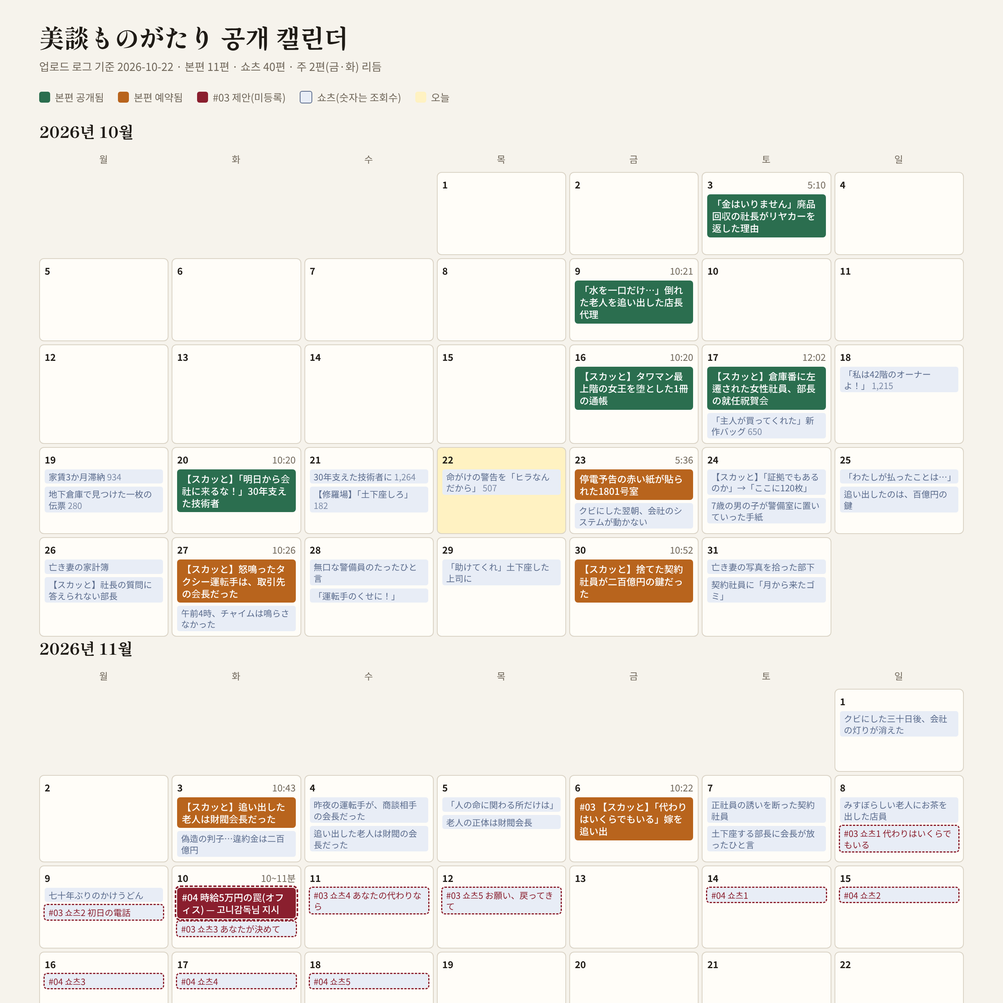
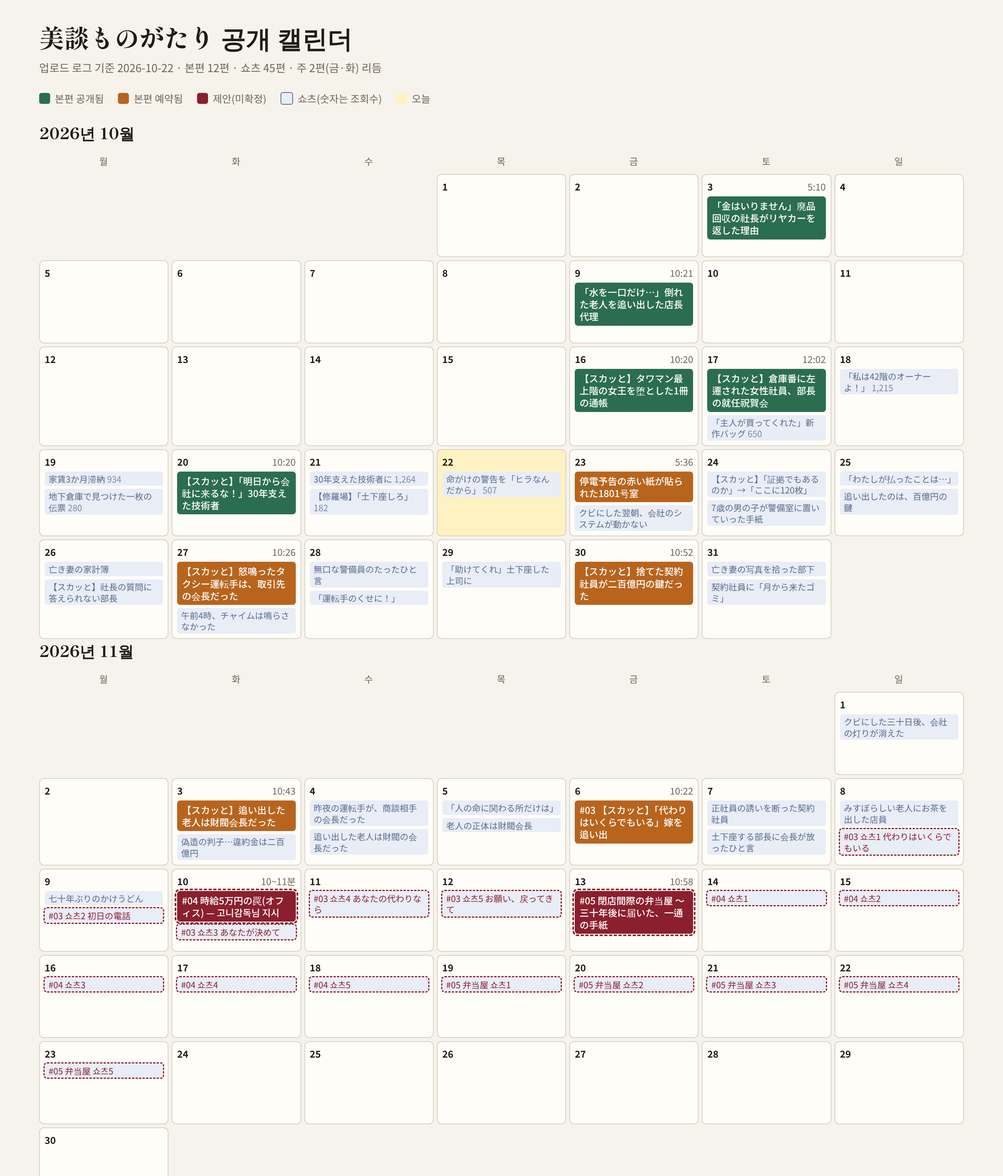
일정 도구: 「제안」 본편도 찬 칸으로, 쇼츠는 빈 날 우선 — #05 弁当屋 11/13 본편·11/19~23 쇼츠 제안 추가
Claude-Session: https://claude.ai/code/session_018wAFaWMhFYBvBXAjysko2Q

diff --git a/docs/채널-공개캘린더.html b/docs/채널-공개캘린더.html
@@ -45,12 +45,12 @@ td.n{font-variant-numeric:tabular-nums;text-align:right}
 <div class="wrap">
   <header>
     <h1>美談ものがたり 공개 캘린더</h1>
-    <p class="sub">업로드 로그 기준 2026-10-22 · 본편 11편 · 쇼츠 40편 · 주 2편(금·화) 리듬</p>
+    <p class="sub">업로드 로그 기준 2026-10-22 · 본편 12편 · 쇼츠 45편 · 주 2편(금·화) 리듬</p>
   </header>
   <div class="legend">
     <span><i class="sw" style="background:var(--main-pub)"></i>본편 공개됨</span>
     <span><i class="sw" style="background:var(--main-res)"></i>본편 예약됨</span>
-    <span><i class="sw" style="background:var(--main-prop)"></i>#03 제안(미등록)</span>
+    <span><i class="sw" style="background:var(--main-prop)"></i>제안(미확정)</span>
     <span><i class="sw" style="background:var(--short-bg);border:1px solid var(--short)"></i>쇼츠(숫자는 조회수)</span>
     <span><i class="sw" style="background:var(--today)"></i>오늘</span>
   </div>
@@ -64,8 +64,8 @@ td.n{font-variant-numeric:tabular-nums;text-align:right}
   <p class="note">본편 리듬은 금·화, 쇼츠는 거의 매일 1~2편. #03은 기예약 4편 뒤 첫 빈 금요일(11/6)에 두고, 쇼츠 5편은 기예약이 2편인 날(11/7)을 피해 11/8~11/12에 하루 1편씩 배치했습니다. 공개 시각은 전부 20:00 JST(쇼츠 평일 19:00·주말 12:00)로 가정했습니다.</p>
 </div>
 <script>
-const MAIN=[["2026-10-03", "pub", "「金はいりません」廃品回収の社長がリヤカーを返した理由", "5:10", null], ["2026-10-09", "pub", "「水を一口だけ…」倒れた老人を追い出した店長代理", "10:21", null], ["2026-10-16", "pub", "【スカッと】タワマン最上階の女王を堕とした1冊の通帳", "10:20", null], ["2026-10-17", "pub", "【スカッと】倉庫番に左遷された女性社員、部長の就任祝賀会", "12:02", null], ["2026-10-20", "pub", "【スカッと】「明日から会社に来るな！」30年支えた技術者", "10:20", null], ["2026-10-23", "res", "停電予告の赤い紙が貼られた1801号室", "5:36", null], ["2026-10-27", "res", "【スカッと】怒鳴ったタクシー運転手は、取引先の会長だった", "10:26", null], ["2026-10-30", "res", "【スカッと】捨てた契約社員が二百億円の鍵だった", "10:52", null], ["2026-11-03", "res", "【スカッと】追い出した老人は財閥会長だった", "10:43", null], ["2026-11-06", "res", "#03 【スカッと】「代わりはいくらでもいる」嫁を追い出", "10:22", null], ["2026-11-10", "prop", "#04 時給5万円の罠(オフィス) — 고니감독님 지시", "10~11분", null]];
-const SHORTS={"2026-10-17": [["「主人が買ってくれた」新作バッグ", 650, false]], "2026-10-18": [["「私は42階のオーナーよ！」", 1215, false]], "2026-10-19": [["家賃3か月滞納", 934, false], ["地下倉庫で見つけた一枚の伝票", 280, false]], "2026-10-21": [["30年支えた技術者に", 1264, false], ["【修羅場】「土下座しろ」", 182, false]], "2026-10-22": [["命がけの警告を「ヒラなんだから」", 507, false]], "2026-10-23": [["クビにした翌朝、会社のシステムが動かない", null, false]], "2026-10-24": [["【スカッと】「証拠でもあるのか」→「ここに120枚」", null, false], ["7歳の男の子が警備室に置いていった手紙", null, false]], "2026-10-25": [["「わたしが払ったことは…」", null, false], ["追い出したのは、百億円の鍵", null, false]], "2026-10-26": [["亡き妻の家計簿", null, false], ["【スカッと】社長の質問に答えられない部長", null, false]], "2026-10-27": [["午前4時、チャイムは鳴らさなかった", null, false]], "2026-10-28": [["無口な警備員のたったひと言", null, false], ["「運転手のくせに！」", null, false]], "2026-10-29": [["「助けてくれ」土下座した上司に", null, false]], "2026-10-31": [["亡き妻の写真を拾った部下", null, false], ["契約社員に「月から来たゴミ」", null, false]], "2026-11-01": [["クビにした三十日後、会社の灯りが消えた", null, false]], "2026-11-03": [["偽造の判子…違約金は二百億円", null, false]], "2026-11-04": [["昨夜の運転手が、商談相手の会長だった", null, false], ["追い出した老人は財閥の会長だった", null, false]], "2026-11-05": [["「人の命に関わる所だけは」", null, false], ["老人の正体は財閥会長", null, false]], "2026-11-07": [["正社員の誘いを断った契約社員", null, false], ["土下座する部長に会長が放ったひと言", null, false]], "2026-11-08": [["みすぼらしい老人にお茶を出した店員", null, false], ["#03 쇼츠1 代わりはいくらでもいる", null, true]], "2026-11-09": [["七十年ぶりのかけうどん", null, false], ["#03 쇼츠2 初日の電話", null, true]], "2026-11-10": [["#03 쇼츠3 あなたが決めて", null, true]], "2026-11-11": [["#03 쇼츠4 あなたの代わりなら", null, true]], "2026-11-12": [["#03 쇼츠5 お願い、戻ってきて", null, true]], "2026-11-14": [["#04 쇼츠1", null, true]], "2026-11-15": [["#04 쇼츠2", null, true]], "2026-11-16": [["#04 쇼츠3", null, true]], "2026-11-17": [["#04 쇼츠4", null, true]], "2026-11-18": [["#04 쇼츠5", null, true]]};
+const MAIN=[["2026-10-03", "pub", "「金はいりません」廃品回収の社長がリヤカーを返した理由", "5:10", null], ["2026-10-09", "pub", "「水を一口だけ…」倒れた老人を追い出した店長代理", "10:21", null], ["2026-10-16", "pub", "【スカッと】タワマン最上階の女王を堕とした1冊の通帳", "10:20", null], ["2026-10-17", "pub", "【スカッと】倉庫番に左遷された女性社員、部長の就任祝賀会", "12:02", null], ["2026-10-20", "pub", "【スカッと】「明日から会社に来るな！」30年支えた技術者", "10:20", null], ["2026-10-23", "res", "停電予告の赤い紙が貼られた1801号室", "5:36", null], ["2026-10-27", "res", "【スカッと】怒鳴ったタクシー運転手は、取引先の会長だった", "10:26", null], ["2026-10-30", "res", "【スカッと】捨てた契約社員が二百億円の鍵だった", "10:52", null], ["2026-11-03", "res", "【スカッと】追い出した老人は財閥会長だった", "10:43", null], ["2026-11-06", "res", "#03 【スカッと】「代わりはいくらでもいる」嫁を追い出", "10:22", null], ["2026-11-10", "prop", "#04 時給5万円の罠(オフィス) — 고니감독님 지시", "10~11분", null], ["2026-11-13", "prop", "#05 閉店間際の弁当屋 〜三十年後に届いた、一通の手紙", "10:58", null]];
+const SHORTS={"2026-10-17": [["「主人が買ってくれた」新作バッグ", 650, false]], "2026-10-18": [["「私は42階のオーナーよ！」", 1215, false]], "2026-10-19": [["家賃3か月滞納", 934, false], ["地下倉庫で見つけた一枚の伝票", 280, false]], "2026-10-21": [["30年支えた技術者に", 1264, false], ["【修羅場】「土下座しろ」", 182, false]], "2026-10-22": [["命がけの警告を「ヒラなんだから」", 507, false]], "2026-10-23": [["クビにした翌朝、会社のシステムが動かない", null, false]], "2026-10-24": [["【スカッと】「証拠でもあるのか」→「ここに120枚」", null, false], ["7歳の男の子が警備室に置いていった手紙", null, false]], "2026-10-25": [["「わたしが払ったことは…」", null, false], ["追い出したのは、百億円の鍵", null, false]], "2026-10-26": [["亡き妻の家計簿", null, false], ["【スカッと】社長の質問に答えられない部長", null, false]], "2026-10-27": [["午前4時、チャイムは鳴らさなかった", null, false]], "2026-10-28": [["無口な警備員のたったひと言", null, false], ["「運転手のくせに！」", null, false]], "2026-10-29": [["「助けてくれ」土下座した上司に", null, false]], "2026-10-31": [["亡き妻の写真を拾った部下", null, false], ["契約社員に「月から来たゴミ」", null, false]], "2026-11-01": [["クビにした三十日後、会社の灯りが消えた", null, false]], "2026-11-03": [["偽造の判子…違約金は二百億円", null, false]], "2026-11-04": [["昨夜の運転手が、商談相手の会長だった", null, false], ["追い出した老人は財閥の会長だった", null, false]], "2026-11-05": [["「人の命に関わる所だけは」", null, false], ["老人の正体は財閥会長", null, false]], "2026-11-07": [["正社員の誘いを断った契約社員", null, false], ["土下座する部長に会長が放ったひと言", null, false]], "2026-11-08": [["みすぼらしい老人にお茶を出した店員", null, false], ["#03 쇼츠1 代わりはいくらでもいる", null, true]], "2026-11-09": [["七十年ぶりのかけうどん", null, false], ["#03 쇼츠2 初日の電話", null, true]], "2026-11-10": [["#03 쇼츠3 あなたが決めて", null, true]], "2026-11-11": [["#03 쇼츠4 あなたの代わりなら", null, true]], "2026-11-12": [["#03 쇼츠5 お願い、戻ってきて", null, true]], "2026-11-14": [["#04 쇼츠1", null, true]], "2026-11-15": [["#04 쇼츠2", null, true]], "2026-11-16": [["#04 쇼츠3", null, true]], "2026-11-17": [["#04 쇼츠4", null, true]], "2026-11-18": [["#04 쇼츠5", null, true]], "2026-11-19": [["#05 弁当屋 쇼츠1", null, true]], "2026-11-20": [["#05 弁当屋 쇼츠2", null, true]], "2026-11-21": [["#05 弁当屋 쇼츠3", null, true]], "2026-11-22": [["#05 弁当屋 쇼츠4", null, true]], "2026-11-23": [["#05 弁当屋 쇼츠5", null, true]]};
 const TODAY="2026-10-22", DOW=["월","화","수","목","금","토","일"];
 const mainBy={}; MAIN.forEach(m=>mainBy[m[0]]=m);
 function month(y,m){

diff --git a/scripts/upload_calendar.py b/scripts/upload_calendar.py
@@ -23,7 +23,7 @@ for ln in open(LOG,encoding="utf-8"):
             items.append([re.sub(r"\(제안\)","",name).strip()[:26], int(v.group(1).replace(",","")) if v else None, "제안" in part])
         shorts.setdefault(c[0],[]).extend(items)
 months=sorted({(int(d[:4]),int(d[5:7])) for d in [m[0] for m in main]+list(shorts)})
-head='<title>美談ものがたり 공개 캘린더</title>\n<meta name="claude:viewport-fit-sides" content="cover">\n<link rel="stylesheet" href="https://fonts.googleapis.com/css2?family=Shippori+Mincho:wght@600;800&family=Noto+Sans+KR:wght@400;500;700&display=swap">\n<style>\n/* 레이아웃: 월간 7열 격자. 하루 칸에 본편(굵은 띠)·쇼츠(작은 칩)를 쌓는다. */\n:root{\n  --bg:#f6f3ec; --fg:#1f1b16; --muted:#6f6659; --line:#d9d2c4; --cell:#fffdf8;\n  --main-pub:#2b6e4f; --main-res:#b8641d; --main-prop:#8a1f2e;\n  --short:#5a6b8c; --short-bg:#e8edf6; --today:#fff2c2;\n  --display:"Shippori Mincho","Noto Serif CJK JP",serif; --body:"Noto Sans KR","Noto Sans CJK JP",system-ui,sans-serif;\n}\n@media (prefers-color-scheme: dark){:root:not([data-theme="light"]){--bg:#17150f;--fg:#efe9dd;--muted:#a79d8b;--line:#3a352c;--cell:#211e17;--main-pub:#6fcf9a;--main-res:#f0a35a;--main-prop:#ff8a9a;--short:#b7c5e6;--short-bg:#2a3242;--today:#4a3f12;color-scheme:dark}}\n:root[data-theme="dark"]{--bg:#17150f;--fg:#efe9dd;--muted:#a79d8b;--line:#3a352c;--cell:#211e17;--main-pub:#6fcf9a;--main-res:#f0a35a;--main-prop:#ff8a9a;--short:#b7c5e6;--short-bg:#2a3242;--today:#4a3f12;color-scheme:dark}\nbody{background:var(--bg);color:var(--fg);font-family:var(--body);padding-block:24px;padding-left:max(16px,env(safe-area-inset-left,0px));padding-right:max(16px,env(safe-area-inset-right,0px));}\n.wrap{max-width:1180px;margin:0 auto;display:grid;gap:20px}\nh1{font-family:var(--display);font-weight:800;font-size:clamp(22px,3vw,32px);margin:0;text-wrap:balance}\n.sub{color:var(--muted);font-size:14px;margin:4px 0 0}\n.legend{display:flex;flex-wrap:wrap;gap:10px 18px;font-size:13px;color:var(--muted)}\n.legend span{display:inline-flex;align-items:center;gap:6px}\n.sw{width:14px;height:14px;border-radius:3px;display:inline-block}\n.month h2{font-family:var(--display);font-size:20px;margin:0 0 8px}\n.grid{display:grid;grid-template-columns:repeat(7,minmax(0,1fr));gap:4px}\n.dow{text-align:center;font-size:12px;color:var(--muted);letter-spacing:.08em;padding:4px 0}\n.day{background:var(--cell);border:1px solid var(--line);border-radius:6px;min-height:92px;padding:6px;display:flex;flex-direction:column;gap:4px;min-width:0}\n.day.empty{background:transparent;border-color:transparent}\n.day.today{background:var(--today)}\n.num{font-size:12px;color:var(--muted);font-variant-numeric:tabular-nums;display:flex;justify-content:space-between}\n.num b{color:var(--fg)}\n.main{font-size:12px;line-height:1.3;padding:4px 6px;border-radius:4px;color:#fff;font-weight:500;overflow-wrap:anywhere}\n.main.pub{background:var(--main-pub)} .main.res{background:var(--main-res)} .main.prop{background:var(--main-prop);outline:2px dashed var(--main-prop);outline-offset:1px}\n:root[data-theme="dark"] .main,:root:not([data-theme="light"]) .main{color:#111}\n@media (prefers-color-scheme: light){:root:not([data-theme="dark"]) .main{color:#fff}}\n:root[data-theme="light"] .main{color:#fff}\n.short{font-size:11px;line-height:1.3;padding:2px 5px;border-radius:3px;background:var(--short-bg);color:var(--short);overflow-wrap:anywhere}\n.short.prop{outline:1.5px dashed var(--main-prop);color:var(--main-prop)}\n.short .v{opacity:.75}\n.note{font-size:13px;color:var(--muted);line-height:1.6}\n.tbl{overflow-x:auto}\ntable{border-collapse:collapse;font-size:13px;min-width:520px;width:100%}\nth,td{text-align:left;padding:6px 8px;border-bottom:1px solid var(--line);vertical-align:top}\nth{color:var(--muted);font-weight:500;font-size:12px;letter-spacing:.06em}\ntd.n{font-variant-numeric:tabular-nums;text-align:right}\n@media (max-width:640px){.grid{gap:3px}.day{min-height:70px;padding:4px}.main{font-size:10px;padding:3px 4px}.short{font-size:9.5px;padding:2px 3px}.num{font-size:10px}}\n</style>\n<div class="wrap">\n  <header>\n    <h1>美談ものがたり 공개 캘린더</h1>\n    <p class="sub">YouTube 스튜디오 기준 2026-10-22 · 본편 9편(공개 5·예약 4) · 쇼츠 41편 · #03 『老舗旅館の嫁』 제안 일정 포함</p>\n  </header>\n  <div class="legend">\n    <span><i class="sw" style="background:var(--main-pub)"></i>본편 공개됨</span>\n    <span><i class="sw" style="background:var(--main-res)"></i>본편 예약됨</span>\n    <span><i class="sw" style="background:var(--main-prop)"></i>#03 제안(미등록)</span>\n    <span><i class="sw" style="background:var(--short-bg);border:1px solid var(--short)"></i>쇼츠(숫자는 조회수)</span>\n    <span><i class="sw" style="background:var(--today)"></i>오늘</span>\n  </div>\n  <div id="cal"></div>\n  <div class="tbl">\n    <table>\n      <thead><tr><th>본편</th><th>날짜</th><th>상태</th><th>길이</th><th class="n">조회수</th></tr></thead>\n      <tbody id="list"></tbody>\n    </table>\n  </div>\n  <p class="note">본편 리듬은 금·화, 쇼츠는 거의 매일 1~2편. #03은 기예약 4편 뒤 첫 빈 금요일(11/6)에 두고, 쇼츠 5편은 기예약이 2편인 날(11/7)을 피해 11/8~11/12에 하루 1편씩 배치했습니다. 공개 시각은 전부 20:00 JST(쇼츠 평일 19:00·주말 12:00)로 가정했습니다.</p>\n</div>\n'
+head='<title>美談ものがたり 공개 캘린더</title>\n<meta name="claude:viewport-fit-sides" content="cover">\n<link rel="stylesheet" href="https://fonts.googleapis.com/css2?family=Shippori+Mincho:wght@600;800&family=Noto+Sans+KR:wght@400;500;700&display=swap">\n<style>\n/* 레이아웃: 월간 7열 격자. 하루 칸에 본편(굵은 띠)·쇼츠(작은 칩)를 쌓는다. */\n:root{\n  --bg:#f6f3ec; --fg:#1f1b16; --muted:#6f6659; --line:#d9d2c4; --cell:#fffdf8;\n  --main-pub:#2b6e4f; --main-res:#b8641d; --main-prop:#8a1f2e;\n  --short:#5a6b8c; --short-bg:#e8edf6; --today:#fff2c2;\n  --display:"Shippori Mincho","Noto Serif CJK JP",serif; --body:"Noto Sans KR","Noto Sans CJK JP",system-ui,sans-serif;\n}\n@media (prefers-color-scheme: dark){:root:not([data-theme="light"]){--bg:#17150f;--fg:#efe9dd;--muted:#a79d8b;--line:#3a352c;--cell:#211e17;--main-pub:#6fcf9a;--main-res:#f0a35a;--main-prop:#ff8a9a;--short:#b7c5e6;--short-bg:#2a3242;--today:#4a3f12;color-scheme:dark}}\n:root[data-theme="dark"]{--bg:#17150f;--fg:#efe9dd;--muted:#a79d8b;--line:#3a352c;--cell:#211e17;--main-pub:#6fcf9a;--main-res:#f0a35a;--main-prop:#ff8a9a;--short:#b7c5e6;--short-bg:#2a3242;--today:#4a3f12;color-scheme:dark}\nbody{background:var(--bg);color:var(--fg);font-family:var(--body);padding-block:24px;padding-left:max(16px,env(safe-area-inset-left,0px));padding-right:max(16px,env(safe-area-inset-right,0px));}\n.wrap{max-width:1180px;margin:0 auto;display:grid;gap:20px}\nh1{font-family:var(--display);font-weight:800;font-size:clamp(22px,3vw,32px);margin:0;text-wrap:balance}\n.sub{color:var(--muted);font-size:14px;margin:4px 0 0}\n.legend{display:flex;flex-wrap:wrap;gap:10px 18px;font-size:13px;color:var(--muted)}\n.legend span{display:inline-flex;align-items:center;gap:6px}\n.sw{width:14px;height:14px;border-radius:3px;display:inline-block}\n.month h2{font-family:var(--display);font-size:20px;margin:0 0 8px}\n.grid{display:grid;grid-template-columns:repeat(7,minmax(0,1fr));gap:4px}\n.dow{text-align:center;font-size:12px;color:var(--muted);letter-spacing:.08em;padding:4px 0}\n.day{background:var(--cell);border:1px solid var(--line);border-radius:6px;min-height:92px;padding:6px;display:flex;flex-direction:column;gap:4px;min-width:0}\n.day.empty{background:transparent;border-color:transparent}\n.day.today{background:var(--today)}\n.num{font-size:12px;color:var(--muted);font-variant-numeric:tabular-nums;display:flex;justify-content:space-between}\n.num b{color:var(--fg)}\n.main{font-size:12px;line-height:1.3;padding:4px 6px;border-radius:4px;color:#fff;font-weight:500;overflow-wrap:anywhere}\n.main.pub{background:var(--main-pub)} .main.res{background:var(--main-res)} .main.prop{background:var(--main-prop);outline:2px dashed var(--main-prop);outline-offset:1px}\n:root[data-theme="dark"] .main,:root:not([data-theme="light"]) .main{color:#111}\n@media (prefers-color-scheme: light){:root:not([data-theme="dark"]) .main{color:#fff}}\n:root[data-theme="light"] .main{color:#fff}\n.short{font-size:11px;line-height:1.3;padding:2px 5px;border-radius:3px;background:var(--short-bg);color:var(--short);overflow-wrap:anywhere}\n.short.prop{outline:1.5px dashed var(--main-prop);color:var(--main-prop)}\n.short .v{opacity:.75}\n.note{font-size:13px;color:var(--muted);line-height:1.6}\n.tbl{overflow-x:auto}\ntable{border-collapse:collapse;font-size:13px;min-width:520px;width:100%}\nth,td{text-align:left;padding:6px 8px;border-bottom:1px solid var(--line);vertical-align:top}\nth{color:var(--muted);font-weight:500;font-size:12px;letter-spacing:.06em}\ntd.n{font-variant-numeric:tabular-nums;text-align:right}\n@media (max-width:640px){.grid{gap:3px}.day{min-height:70px;padding:4px}.main{font-size:10px;padding:3px 4px}.short{font-size:9.5px;padding:2px 3px}.num{font-size:10px}}\n</style>\n<div class="wrap">\n  <header>\n    <h1>美談ものがたり 공개 캘린더</h1>\n    <p class="sub">YouTube 스튜디오 기준 2026-10-22 · 본편 9편(공개 5·예약 4) · 쇼츠 41편 · #03 『老舗旅館の嫁』 제안 일정 포함</p>\n  </header>\n  <div class="legend">\n    <span><i class="sw" style="background:var(--main-pub)"></i>본편 공개됨</span>\n    <span><i class="sw" style="background:var(--main-res)"></i>본편 예약됨</span>\n    <span><i class="sw" style="background:var(--main-prop)"></i>제안(미확정)</span>\n    <span><i class="sw" style="background:var(--short-bg);border:1px solid var(--short)"></i>쇼츠(숫자는 조회수)</span>\n    <span><i class="sw" style="background:var(--today)"></i>오늘</span>\n  </div>\n  <div id="cal"></div>\n  <div class="tbl">\n    <table>\n      <thead><tr><th>본편</th><th>날짜</th><th>상태</th><th>길이</th><th class="n">조회수</th></tr></thead>\n      <tbody id="list"></tbody>\n    </table>\n  </div>\n  <p class="note">본편 리듬은 금·화, 쇼츠는 거의 매일 1~2편. #03은 기예약 4편 뒤 첫 빈 금요일(11/6)에 두고, 쇼츠 5편은 기예약이 2편인 날(11/7)을 피해 11/8~11/12에 하루 1편씩 배치했습니다. 공개 시각은 전부 20:00 JST(쇼츠 평일 19:00·주말 12:00)로 가정했습니다.</p>\n</div>\n'
 tail='const TODAY="2026-10-22", DOW=["월","화","수","목","금","토","일"];\nconst mainBy={}; MAIN.forEach(m=>mainBy[m[0]]=m);\nfunction month(y,m){\n  const first=new Date(y,m-1,1), days=new Date(y,m,0).getDate();\n  let lead=(first.getDay()+6)%7, h=`<section class="month"><h2>${y}년 ${m}월</h2><div class="grid">`;\n  h+=DOW.map(d=>`<div class="dow">${d}</div>`).join("");\n  for(let i=0;i<lead;i++)h+=`<div class="day empty"></div>`;\n  for(let d=1;d<=days;d++){\n    const k=`${y}-${String(m).padStart(2,"0")}-${String(d).padStart(2,"0")}`;\n    const mm=mainBy[k], ss=SHORTS[k]||[];\n    h+=`<div class="day${k===TODAY?" today":""}"><div class="num"><b>${d}</b>${mm?`<span>${mm[3]}</span>`:""}</div>`;\n    if(mm)h+=`<div class="main ${mm[1]}">${mm[2]}</div>`;\n    ss.forEach(s=>h+=`<div class="short${s[2]?" prop":""}">${s[0]}${s[1]!=null?` <span class="v">${s[1].toLocaleString()}</span>`:""}</div>`);\n    h+=`</div>`;\n  }\n  return h+`</div></section>`;\n}\ndocument.getElementById("cal").innerHTML=month(2026,10)+month(2026,11);\nconst st={pub:"공개",res:"예약",prop:"제안"};\ndocument.getElementById("list").innerHTML=MAIN.map(m=>{const d=new Date(m[0]);return `<tr><td>${m[2]}</td><td>${m[0].slice(5).replace("-","/")}(${DOW[(d.getDay()+6)%7]})</td><td>${st[m[1]]}</td><td>${m[3]}</td><td class="n">${m[4]==null?"–":m[4]}</td></tr>`}).join("");\n</script>\n'
 tail=tail.replace("month(2026,10)+month(2026,11)","+".join(f"month({y},{m})" for y,m in months))
 html=head+"<script>\nconst MAIN="+json.dumps(main,ensure_ascii=False)+";\nconst SHORTS="+json.dumps(shorts,ensure_ascii=False)+";\n"+tail.replace('const TODAY="2026-10-22"',f'const TODAY="{today}"')
@@ -32,7 +32,7 @@ open(OUT,"w",encoding="utf-8").write(html)
 full=OUT+".full.html"; open(full,"w",encoding="utf-8").write('<!doctype html><html><head><meta charset="utf-8"></head><body style="margin:0">'+html+"</body></html>")
 try:
     subprocess.run(["/opt/pw-browsers/chromium","--headless=new","--no-sandbox","--disable-gpu","--hide-scrollbars","--force-device-scale-factor=2","--window-size=1280,2400","--virtual-time-budget=4000",f"--screenshot={PNG}",f"file://{full}"],check=True,capture_output=True,timeout=120)
-    from PIL import Image; im=Image.open(PNG); im.crop((0,0,im.width,min(im.height,2560))).save(PNG)
+    from PIL import Image; im=Image.open(PNG); im.crop((0,0,im.width,min(im.height,3000))).save(PNG)
     print("PNG:",PNG)
 except Exception as e: print("PNG 생략:",e)
 finally: os.remove(full)

diff --git a/scripts/next_slot.py b/scripts/next_slot.py
@@ -1,5 +1,5 @@
 #!/usr/bin/env python3
-"""채널 업로드 로그(docs/채널-업로드로그.md)를 읽어 기예약·공개 이력과 다음 빈 본편 슬롯(금·토 20:00 JST)·쇼츠 일정을 출력한다.
+"""채널 업로드 로그(docs/채널-업로드로그.md)를 읽어 기예약·공개 이력과 다음 빈 본편 슬롯(금·화 20:00 JST)·쇼츠 일정을 출력한다.
 사용법: next_slot.py [작품명] [--after YYYY-MM-DD]   (PHASE 1 착수·업로드 가이드 작성 때 실행)"""
 import re, sys, datetime as dt
 ROOT = __import__('os').path.dirname(__import__('os').path.dirname(__import__('os').path.abspath(__file__)))
@@ -11,8 +11,10 @@ for ln in open(LOG, encoding="utf-8"):
     m = re.match(r"\|\s*\*{0,2}(\d{4}-\d{2}-\d{2})\*{0,2}\s*\|\s*\*{0,2}(\S+?)\*{0,2}\s*\|\s*\*{0,2}([^|]+?)\*{0,2}\s*\|\s*\*{0,2}([^|]+?)\*{0,2}\s*\|", ln)
     if not m: continue
     d = dt.date.fromisoformat(m.group(1))
-    if sec and "쇼츠" in sec: shorts_cnt[d] = int(m.group(3)) if m.group(3).strip().isdigit() else 1
-    elif sec and "본편" in sec and "제안" not in m.group(3): rows.append((d, m.group(3).strip(), m.group(4).strip()))
+    if sec and "쇼츠" in sec:  # 같은 날 행이 여러 개(「+1」)면 더한다
+        c = m.group(3).strip().lstrip("+")
+        shorts_cnt[d] = shorts_cnt.get(d, 0) + (int(c) if c.isdigit() else 1)
+    elif sec and "본편" in sec: rows.append((d, m.group(3).strip(), m.group(4).strip()))  # 「제안」도 찬 칸(11/10 #04와 겹친 실증)
 booked = {r[0] for r in rows}
 title = next((a for a in sys.argv[1:] if not a.startswith("--")), "(새 작품)")
 after = dt.date.today()
@@ -26,11 +28,15 @@ d = max(after, last) + dt.timedelta(days=1)
 while d.weekday() not in (1, 4) or d in booked: d += dt.timedelta(days=1)
 print(f"\n== {title} 제안 ==")
 print(f"  본편: {d} ({'월화수목금토일'[d.weekday()]}) 20:00 JST  (커뮤니티 예고 같은 날 12:00)")
-# 쇼츠: 본편 다음 날부터, 이미 쇼츠가 2편 이상 예약된 날과 본편 공개일은 건너뛴다(하루 1편)
-shorts = []; x = d + dt.timedelta(days=1)
+# 쇼츠: 본편 다음 날부터 본편 공개일을 빼고, 쇼츠가 없는 날을 먼저(14일 안) → 모자라면 2편 미만인 날로 채운다
+free = lambda x, lim: x not in booked and shorts_cnt.get(x, 0) < lim
+win = [d + dt.timedelta(days=i) for i in range(1, 15)]
+shorts = [x for x in win if free(x, 1)][:5]
+x = d + dt.timedelta(days=1)
 while len(shorts) < 5:
-    if x not in booked and shorts_cnt.get(x, 0) < 2: shorts.append(x)
+    if x not in shorts and free(x, 2): shorts.append(x)
     x += dt.timedelta(days=1)
+shorts.sort()
 for i, s in enumerate(shorts, 1):
     print(f"  쇼츠 {i}: {s} ({'월화수목금토일'[s.weekday()]}) {'12:00' if s.weekday() in (5, 6) else '19:00'}")
 print(f"  24시간 지표 확인: {d + dt.timedelta(days=1)} 20:00 / 성과표 기록: {d + dt.timedelta(days=7)}")

diff --git a/docs/채널-업로드로그.md b/docs/채널-업로드로그.md
@@ -19,6 +19,7 @@
 | 2026-11-06 | 금 | 예약 | #03 【スカッと】「代わりはいくらでもいる」嫁を追い出した旅館の3か月後 | 10:22 | youtu.be/WLry4qoeVpo · 20:00 예약 완료(2026-10-22) · 썸네일 A/B/C 테스트 · 엔딩(구독+시청자 맞춤) · 카드 3:35 地下倉庫·7:07 1801号室 |
 
 | **2026-11-10** | **화** | **제안** | **#04 時給5万円の罠(オフィス) — 고니감독님 지시 2026-10-22** | 10~11분 | 금·화 리듬의 다음 빈 칸. 쇼츠 5편 11/14~11/18 제안 |
+| **2026-11-13** | **금** | **제안** | **#05 閉店間際の弁当屋 〜三十年後に届いた、一通の手紙〜 — 4차 검수판 2026-10-22** | 10:58 | 노포료칸 완료 후 확정(고니감독님 2026-10-22). 쇼츠 5편 11/19~11/23 제안 |
 
 ## 쇼츠(예약·공개, 2026-10-22 기준 총 41편)
 | 날짜 | 요일 | 편수 | 내용 |
@@ -53,6 +54,11 @@
 | 2026-11-16 | 월 | 1 | #04 쇼츠3(제안) |
 | 2026-11-17 | 화 | 1 | #04 쇼츠4(제안) |
 | 2026-11-18 | 수 | 1 | #04 쇼츠5(제안) |
+| 2026-11-19 | 목 | 1 | #05 弁当屋 쇼츠1(제안) |
+| 2026-11-20 | 금 | 1 | #05 弁当屋 쇼츠2(제안) |
+| 2026-11-21 | 토 | 1 | #05 弁当屋 쇼츠3(제안) |
+| 2026-11-22 | 일 | 1 | #05 弁当屋 쇼츠4(제안) |
+| 2026-11-23 | 월 | 1 | #05 弁当屋 쇼츠5(제안) |
 
 ## 성과 기록(공개 1주 후 채움)
 | 작품 | CTR | 평균 시청 지속률 | 이탈 타임코드 | 조회수(7일) | 쇼츠 조회수 |
